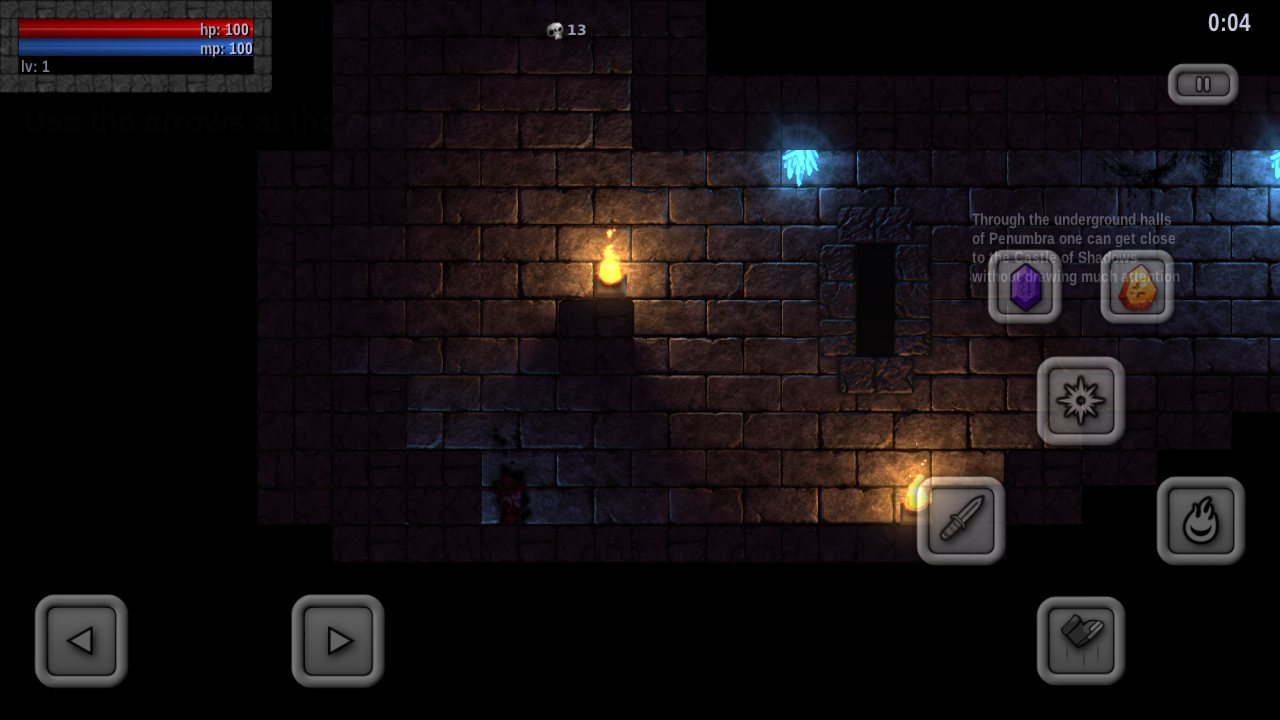
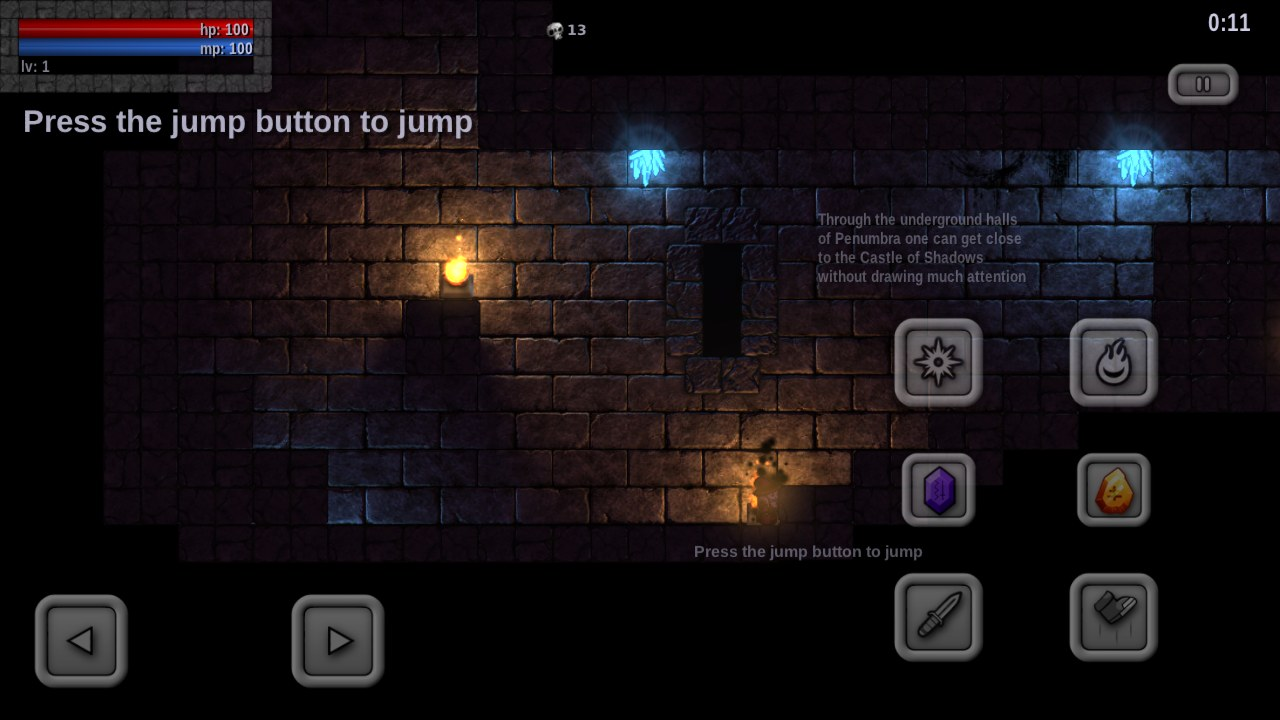
Penumbra: the README and the guides brought up to date for 1.0.3; four screenshots
A line-by-line check of the README against the code found it describing
1.0.2: a globe button on the main menu (removed by E30), "over 20,000
automated checks" (39,290 on Linux, 17 suites; Windows passes 17 of 17 on
GitHub's runner), the controls without the adjustable touch editor, "the game
plays exactly as it did" (E7, E9, E11, E13, E15 and E22 change it), the
Android build needing "Python 3" (it needs Pillow), and a credits line that
left out the options screen's and the editor's buttons that LICENSE.md lists.
All corrected. The Android row now says what was tried where: played through
on a real phone, the touch editor included (an earlier build); the newest
button layout only checked on an emulator.

Screenshots: menu.jpg (the old one showed the removed globe), touch-controls.jpg
(it showed the pre-E29 diamond) and touch-editor.jpg (E29's stagger) are
recaptured from the current build; options-phone.jpg, E31's two-column phone
settings screen, is new and sits beside the editor in the README gallery and
in controls.md. Captures are Linux software-Vulkan renders with stand-in
fonts.

docs/install.md and docs/install.pt.md: the Touch paragraph now describes the
two columns and the Adjust controls screen; the Android "Tested" note matches
the README; the credits line matches LICENSE.md. building.md no longer names
v1.0.2 as release.yml's default tag (the tag is set in the workflow);
code-signing.md no longer points at a release's contents; enhancements.md E10
[…]

diff --git a/README.md b/README.md
@@ -32,10 +32,13 @@ The Windows download is not code-signed yet, and the Mac app is not notarised by
 
 <img src="docs/images/level2.jpg" alt="Level 2: a fireball toward three guards" width="32%">
 <img src="docs/images/arena-lava.jpg" alt="A Versus arena over lava" width="32%">
-<img src="docs/images/touch-controls.jpg" alt="The touch controls on Android" width="32%">
+<img src="docs/images/touch-controls.jpg" alt="The touch controls in level 1" width="32%">
 <img src="docs/images/options.jpg" alt="The options screen" width="32%">
 <img src="docs/images/arena-pipes.jpg" alt="A Versus arena with pipes" width="32%">
 <img src="docs/images/credits.jpg" alt="The credits, with the enhanced edition" width="32%">
+
+<img src="docs/images/touch-editor.jpg" alt="The touch-controls editor: tiles for the buttons' size and opacity, a padlock, and buttons that can be moved" width="49%">
+<img src="docs/images/options-phone.jpg" alt="The options screen on a phone: two columns of settings, with the language chooser at the top right" width="49%">
 
 </div>
 
@@ -46,17 +49,18 @@ Engine. You play a wizard with a sword, fireballs and a light spell, fighting th
 to the castle's king, alone, in co-op, or in Versus.
 
 This is an **enhanced edition**, not a remake: the original's own scripts are ported to C++ line by
-line and read the original's own files, so the game plays exactly as it did. It runs on Ivan
-Cvetanović's [Supersonic Engine](https://github.com/IvanCvetanovic/Supersonic-Engine), and is
-published with André Santee's explicit permission.
+line and read the original's own files, so the game plays as it did, apart from the changes listed in
+[`docs/enhancements.md`](docs/enhancements.md). It runs on Ivan Cvetanović's
+[Supersonic Engine](https://github.com/IvanCvetanovic/Supersonic-Engine), and is published with
+André Santee's explicit permission.
 
 ## What's enhanced
 
 | | |
 |---|---|
 | **Display** | Widescreen at any resolution; the best resolution and refresh rate chosen automatically, or by hand; smooth motion on fast monitors |
-| **Controls** | Modern gamepads, a keyboard second player, on-screen touch controls, a pause |
-| **Languages** | English, German, Spanish, French, Italian, Portuguese, Russian, Turkish, Ukrainian, Japanese and Arabic, following your system's language by itself, and switchable in game from a globe button on the main menu |
+| **Controls** | Modern gamepads, a keyboard second player, on-screen touch controls you can resize, fade and move, a pause |
+| **Languages** | English, German, Spanish, French, Italian, Portuguese, Russian, Turkish, Ukrainian, Japanese and Arabic, following your system's language by itself, and switchable in game from the Settings screen |
 | **Platforms** | Downloads for Windows, Android, Mac and Linux, and an experimental one for iPhone and iPad |
 | **Fixes** | Bugs of the original fixed, and its rendering matched more closely |
 
@@ -66,15 +70,16 @@ Every change is listed with what the original did in [`docs/enhancements.md`](do
 
 | Platform | Status | What was checked | Download |
 |---|---|---|---|
-| Windows | ![playtested](https://img.shields.io/badge/-playtested-2ea44f) | Played through by a person; over 20,000 automated checks | [Penumbra-Windows.zip](https://github.com/IvanCvetanovic/Penumbra-and-the-Castle-of-Shadows-Enhanced/releases/latest/download/Penumbra-Windows.zip) |
-| Linux | ![tested](https://img.shields.io/badge/-tested-1f6feb) | All 17 test suites pass in the release build; the download itself, unpacked read-only, plays level 1 on a software Vulkan driver; not played by a person | [Penumbra-Linux.tar.gz](https://github.com/IvanCvetanovic/Penumbra-and-the-Castle-of-Shadows-Enhanced/releases/latest/download/Penumbra-Linux.tar.gz) |
-| Android | ![playtested](https://img.shields.io/badge/-playtested-2ea44f) | Played through on a real phone by a person; scripted tests on an emulator | [Penumbra-Android.apk](https://github.com/IvanCvetanovic/Penumbra-and-the-Castle-of-Shadows-Enhanced/releases/latest/download/Penumbra-Android.apk) |
+| Windows | ![playtested](https://img.shields.io/badge/-playtested-2ea44f) | Played through by a person; over 39,000 automated checks, all passing on GitHub's Windows runner | [Penumbra-Windows.zip](https://github.com/IvanCvetanovic/Penumbra-and-the-Castle-of-Shadows-Enhanced/releases/latest/download/Penumbra-Windows.zip) |
+| Linux | ![tested](https://img.shields.io/badge/-tested-1f6feb) | All 17 test suites (over 39,000 checks) pass in the release build; the download itself, unpacked read-only, plays level 1 on a software Vulkan driver; not played by a person | [Penumbra-Linux.tar.gz](https://github.com/IvanCvetanovic/Penumbra-and-the-Castle-of-Shadows-Enhanced/releases/latest/download/Penumbra-Linux.tar.gz) |
+| Android | ![playtested](https://img.shields.io/badge/-playtested-2ea44f) | Played through on a real phone by a person, the touch editor included (an earlier build); the newest button layout was only checked on an emulator; scripted tests on an emulator | [Penumbra-Android.apk](https://github.com/IvanCvetanovic/Penumbra-and-the-Castle-of-Shadows-Enhanced/releases/latest/download/Penumbra-Android.apk) |
 | macOS | ![CI](https://img.shields.io/badge/-CI%20only-d29922) | Tests pass on GitHub Actions; the download runs level 1 on GitHub's Apple silicon Macs, and its Intel half there under Rosetta; not played; never run on a real Intel Mac; not notarised | [Penumbra-macOS.zip](https://github.com/IvanCvetanovic/Penumbra-and-the-Castle-of-Shadows-Enhanced/releases/latest/download/Penumbra-macOS.zip) |
 | iOS | ![builds](https://img.shields.io/badge/-builds%20only-8b949e) | Compiles; never run on any iPhone or iPad | Experimental: [Penumbra-iOS.ipa](https://github.com/IvanCvetanovic/Penumbra-and-the-Castle-of-Shadows-Enhanced/releases/latest/download/Penumbra-iOS.ipa), for [sideloading](docs/playing.md#iphone-and-ipad-experimental) |
 
 > [!IMPORTANT]
-> The Windows version, and the Android version on one real phone, have been played by a person. Linux and
-> macOS are verified by automated tests only; the iPhone/iPad version has never run on an iPhone or iPad.
+> The Windows version, and an earlier Android build on one real phone, have been played by a person; the newest
+> Android button layout was only checked on an emulator. Linux and macOS are verified by automated tests only; the
+> iPhone/iPad version has never run on an iPhone or iPad.
 
 ## Build from source
 
@@ -86,7 +91,7 @@ git clone --recurse-submodules https://github.com/IvanCvetanovic/Penumbra-and-th
 |---|---|---|
 | Windows | `cmd //c "tools\build.bat"`, then `build\game\Penumbra.exe` | Visual Studio Build Tools (C++), CMake, Ninja |
 | Linux | `bash tools/build_linux.sh`, then `~/pn-build-linux/game/Penumbra` | [packages](docs/building.md#linux-x64), X11 or XWayland |
-| Android | `bash tools/build_android.sh --abi all` (APK in `out/android/`) | Android SDK and NDK, JDK 17, Python 3 |
+| Android | `bash tools/build_android.sh --abi all` (APK in `out/android/`) | Android SDK and NDK, JDK 17, Python 3 with Pillow |
 | macOS, iOS | The [Apple workflow](https://github.com/IvanCvetanovic/Penumbra-and-the-Castle-of-Shadows-Enhanced/blob/main/.github/workflows/apple.yml) on GitHub Actions; the downloads, the [release workflow](https://github.com/IvanCvetanovic/Penumbra-and-the-Castle-of-Shadows-Enhanced/blob/main/.github/workflows/release.yml) | |
 
 A GPU with **Vulkan 1.2** is required. Details: [`docs/building.md`](docs/building.md) ·
@@ -113,7 +118,7 @@ A GPU with **Vulkan 1.2** is required. Details: [`docs/building.md`](docs/buildi
 > engine work, the tests and the documentation. [`CLAUDE.md`](https://github.com/IvanCvetanovic/Penumbra-and-the-Castle-of-Shadows-Enhanced/blob/main/CLAUDE.md), [`DEVLOG.md`](https://github.com/IvanCvetanovic/Penumbra-and-the-Castle-of-Shadows-Enhanced/blob/main/DEVLOG.md)
 > and [`docs/planning/`](https://github.com/IvanCvetanovic/Penumbra-and-the-Castle-of-Shadows-Enhanced/blob/main/docs/planning/2026-09-27-penumbra-port.md) are the working record.
 
-Tests: 17 suites check the port against the original's files, and five of them play the game
+Tests: 17 suites (over 39,000 checks) check the port against the original's files, and five of them play the game
 headless ([`docs/testing.md`](docs/testing.md)).
 
 ## Credits
@@ -122,7 +127,7 @@ headless ([`docs/testing.md`](docs/testing.md)).
   Santee (3D modelling, game design), Gabriel Duarte (soundtrack), Approaching Thunderstorm
   (music); thanks to James Hastings-Trew, José Rodolfo Ortale, Rafael "Pet" Alencar, Taina Monclaire.
 - **Enhanced edition:** Ivan Cvetanović, developed with Claude Code.
-- **Touch buttons, and the options screen's frames, buttons and icons:** from *Magic Rampage*, by Asantee Games (the globe and the monitor icons are drawn for this edition).
+- **Touch buttons, the options screen's frames, buttons and icons, and the touch-controls editor's buttons:** from *Magic Rampage*, by Asantee Games (the globe and the monitor icons are drawn for this edition).
 - **Third-party:** TinyXML, dr_mp3, Liberation, DejaVu and Noto fonts, and the engine's libraries
   ([list](https://github.com/IvanCvetanovic/Supersonic-Engine/blob/main/THIRD_PARTY_LICENSES.md)).
 
@@ -131,7 +136,7 @@ headless ([`docs/testing.md`](docs/testing.md)).
 - **Ivan Cvetanović's code and the Supersonic Engine:** [MIT No Attribution](https://github.com/IvanCvetanovic/Penumbra-and-the-Castle-of-Shadows-Enhanced/blob/main/LICENSE), completely
   free to use.
 - **The ported scripts** (`game/script/`) **and the Ethanon runtime** (`game/eth/`): LGPL-3.0.
-- **The original game's files and the Magic Rampage art (the touch buttons, the options screen's frames and icons):** their authors' property.
+- **The original game's files and the Magic Rampage art (the touch buttons, the options screen's frames, buttons and icons, and the touch-controls editor's buttons):** their authors' property.
 
 > [!WARNING]
 > Provided **as is, without any warranty**. Ivan Cvetanović is not responsible for anything that

diff --git a/docs/enhancements.md b/docs/enhancements.md
@@ -19,7 +19,7 @@ behind each change, is the enhancements table and the steps of
 | E7 | Plain bugs fixed. `data.enml` has no level-20 threshold, so a player skipped level 20, and past level 30 the experience code never returned. | — |
 | E8 | Smooth motion on displays faster than 60 Hz: the world (sprites, lights, shadows, particles, camera) is drawn between the last two ticks, one tick behind. It is a row on the options screen and `smoothMotion` in `settings.json`. It is off under `--fixed-step` unless `--smooth on` is given. | One tick per 60 Hz vsync |
 | E9 | Shadows drawn live and ending at the light's reach | Shadows baked into lightmaps, eight times the caster's height |
-| E10 | The options screen also sets keyboard player 2, widescreen or 4:3 levels, Portuguese or English, the music and effects volumes in 10% steps, and smooth motion (E8), all saved | The screen had the video modes, pixel shaders, window/fullscreen and the joystick layout, all forgotten at exit |
+| E10 | The options screen also sets keyboard player 2, widescreen or 4:3 levels, Portuguese or English (extended to all eleven languages by E24 and E27), the music and effects volumes in 10% steps, and smooth motion (E8), all saved | The screen had the video modes, pixel shaders, window/fullscreen and the joystick layout, all forgotten at exit |
 | E11 | Standing on two floor tiles at once counts as standing | The last tile decided, so the wizard was airborne for one frame at each seam |
 | E12 | One gamepad plays the wizard and drives the menu; a second plays the princess | The first pad was player 2's |
 | E13 | A pause. In a level or an arena, Esc or player 1's Back freezes the game under Resume / Main menu, with the music at 40%. The clock freezes too, so best times leave the pause out. The pause also opens when the window loses focus (`pauseOnFocusLoss`, a row on the options screen). There is no pause on the end screens, where Esc and Back still go to the menu. | No pause: Esc in a level went straight to the main menu and the run was lost |
@@ -28,7 +28,7 @@ behind each change, is the enhancements table and the steps of
 | E16 | On-screen touch controls for phones and tablets: a direction disc, jump, sword, fireball, light, the two combos and pause. They press player 1's own keys, and a tap clicks in the menus. The buttons are Magic Rampage's, laid out by `data/touch_controls.json`. While they are on, the control hints name the buttons, not the keys (`touch` in `data/strings.json`). They are set by `touchControls` in `settings.json`, or by `--touch` on a desktop. | Keyboard and joysticks only; hints name the keys |
 | E17 | Two open-licence stand-in fonts, drawn at the metrics of the Windows faces they replace (Liberation Sans Bold for Arial and Arial Narrow, DejaVu Sans Bold for Arial Black and Verdana). They are used off Windows, and on a Windows machine that lacks a face. | The Windows system fonts only |
 | E18 | MP3 music decoded without Media Foundation (dr_mp3). This is used on every platform but Windows, and on Windows only if Media Foundation refuses a file. | Audiere, on Windows |
-| E19 | The first language follows the system off Windows too: Portuguese where `LC_ALL`, `LC_MESSAGES` or `LANG` starts with `pt`, and the device's language on Android and iOS | Portuguese only |
+| E19 | The first language follows the system off Windows too: Portuguese where `LC_ALL`, `LC_MESSAGES` or `LANG` starts with `pt`, and the device's language on Android and iOS (extended to all eleven languages by E24 and E27) | Portuguese only |
 | E20 | The options screen on a phone. It has no video-mode list, no window switch and no "Press Alt+Enter" line; the touch controls' on/off switch takes the window switch's place. Where the options art is present, E31 draws the phone's screen larger, in a layout of its own. | The same screen on every machine |
 | E21 | The Credits panel also credits the enhanced edition, after the original team: "Ivan Cvetanović", Enhanced edition (Supersonic Engine). The c with acute cannot be written in the original's Windows-1252 text, so it is drawn from byte 0x8D, which that code page leaves unused. | The 2010 team only |
 | E22 | While the touch controls are on, they are player 1 and the first gamepad plays player 2. This makes Versus and the co-op princess playable on a phone with one Bluetooth pad. Without a pad, Versus says to connect one. | A lone pad was player 2's (E12 made it player 1's) |

diff --git a/docs/install.pt.md b/docs/install.pt.md
@@ -66,7 +66,7 @@ Divirta-se!
 
 **Você precisa de:** Android 8 ou mais recente, com gráficos Vulkan 1.2 – a maioria dos celulares de 2020 para cá.
 
-> **Testado:** a versão para Android foi jogada num celular de verdade por quem a criou, e testada automaticamente num emulador de Android. Outros celulares podem se comportar de outro jeito.
+> **Testado:** uma versão anterior do jogo para Android foi jogada do começo ao fim num celular de verdade por quem a criou, inclusive a tela que ajusta os botões. O layout mais novo dos botões só foi testado num emulador de Android, onde o jogo também foi testado automaticamente. Outros celulares podem se comportar de outro jeito.
 
 **[Baixar para Android](https://github.com/IvanCvetanovic/Penumbra-and-the-Castle-of-Shadows-Enhanced/releases/latest/download/Penumbra-Android.apk)**
 
@@ -197,7 +197,7 @@ Esta **edição aprimorada**, de **Ivan Cvetanović**, é igualzinha ao original
 | Feitiço de luz | `Espaço` | `Y` |
 | Pausar | `Esc` | `Back` |
 
-**Toque:** num celular ou tablet, o jogo mostra os próprios botões, inclusive botões que fazem os combos com um toque só. Deslize o polegar pelos botões de seta para andar. Também há um botão para pausar.
+**Toque:** num celular ou tablet, o jogo mostra os próprios botões, inclusive botões que fazem os combos com um toque só. Deslize o polegar pelos botões de seta para andar. Os seis botões de ação ficam embaixo à direita, em duas colunas: espada e pulo embaixo, luz e bola de fogo em cima, e os dois botões do meio fazem os combos com um toque só. Também há um botão para pausar. Nas configurações, Ajustar controles muda o tamanho, a transparência e a posição dos botões.
 
 **Combos:** `←` `←` `S` para um raio de espada, e `↓` `←` `D` para uma grande explosão (ou o mesmo com `→`).
 
@@ -216,7 +216,7 @@ Esta **edição aprimorada**, de **Ivan Cvetanović**, é igualzinha ao original
 **Edição aprimorada**
 
 - **Ivan Cvetanović**, desenvolvida com o Claude Code, na Supersonic Engine dele
-- **Botões de toque e as molduras, botões e ícones da tela de configurações:** do Magic Rampage, da Asantee Games (o globo e o ícone do monitor foram desenhados para esta edição)
+- **Botões de toque, as molduras, botões e ícones da tela de configurações e os botões da tela de ajuste dos controles de toque:** do Magic Rampage, da Asantee Games (o globo e o ícone do monitor foram desenhados para esta edição)
 
 Grátis para jogar. Fornecido como está, sem nenhuma garantia; veja as [licenças](https://github.com/IvanCvetanovic/Penumbra-and-the-Castle-of-Shadows-Enhanced/blob/main/LICENSE.md) (em inglês). O código-fonte está no [GitHub](https://github.com/IvanCvetanovic/Penumbra-and-the-Castle-of-Shadows-Enhanced).
 

diff --git a/docs/install.md b/docs/install.md
@@ -66,7 +66,7 @@ Have fun!
 
 **You need:** Android 8 or newer with Vulkan 1.2 graphics – most phones from about 2020 on.
 
-> **Tested:** the Android version has been played on a real phone by the person who made it, and tested automatically on an Android emulator. Other phones may behave differently.
+> **Tested:** an earlier version of the Android game was played through on a real phone by the person who made it, including the screen that adjusts the buttons. The newest button layout was only tried on an Android emulator, where the game was also tested automatically. Other phones may behave differently.
 
 **[Download for Android](https://github.com/IvanCvetanovic/Penumbra-and-the-Castle-of-Shadows-Enhanced/releases/latest/download/Penumbra-Android.apk)**
 
@@ -197,7 +197,7 @@ This **enhanced edition** by **Ivan Cvetanović** plays just like the original, 
 | Light spell | `Space` | `Y` |
 | Pause | `Esc` | `Back` |
 
-**Touch:** on a phone or tablet the game draws its own buttons, including buttons that do the combos with one tap. Slide your thumb over the arrow buttons to walk. There is also a button to pause.
+**Touch:** on a phone or tablet the game draws its own buttons, including buttons that do the combos with one tap. Slide your thumb over the arrow buttons to walk. The six action buttons are at the bottom right in two columns: sword and jump at the bottom, light and fireball at the top, and the two buttons in the middle do the combos in one tap. There is also a button to pause. In the settings, Adjust controls changes the buttons' size, opacity and place.
 
 **Combos:** `←` `←` `S` for a sword beam, and `↓` `←` `D` for a big blast (or the same with `→`).
 
@@ -216,7 +216,7 @@ This **enhanced edition** by **Ivan Cvetanović** plays just like the original, 
 **Enhanced edition**
 
 - **Ivan Cvetanović**, developed with Claude Code, on his Supersonic Engine
-- **Touch buttons, and the options screen's frames, buttons and icons:** from Magic Rampage, by Asantee Games (the globe and the monitor icons are drawn for this edition)
+- **Touch buttons, the options screen's frames, buttons and icons, and the touch-controls editor's buttons:** from Magic Rampage, by Asantee Games (the globe and the monitor icons are drawn for this edition)
 
 Free to play. Provided as is, without any warranty; see the [licences](https://github.com/IvanCvetanovic/Penumbra-and-the-Castle-of-Shadows-Enhanced/blob/main/LICENSE.md). The source code is on [GitHub](https://github.com/IvanCvetanovic/Penumbra-and-the-Castle-of-Shadows-Enhanced).
 

diff --git a/docs/controls.md b/docs/controls.md
@@ -158,6 +158,10 @@ edge, the right one 30 higher than the left; before it the four buttons were a d
 The buttons' size, opacity and places are the player's to change. With the touch controls on, the options screen has an **Adjust controls** button
 next to the touch controls' switch (on a phone, a cell of the large layout of E31, beside the switch's cell; under it in the art-less layout). It opens a full-screen editor that shows the real buttons on a dark background, as they are in a level: the grid of two columns of three described above (E29, E32), at the size, opacity and places set.
 
+![The options screen on a 20:9 phone: two columns of settings, the language chooser at the top right, and the Adjust controls button beside the touch controls' switch](images/options-phone.jpg)
+
+*A phone's options screen (E31): Adjust controls is the cell to the right of Enable touch controls.*
+
 ![The editor on a 20:9 phone, with the size at 1.2, the opacity at 0.6, the padlock open and some buttons moved](images/touch-editor.jpg)
 
 *A tuned example: size 1.2, opacity 0.6, the padlock open (red) and a few buttons moved. The thin frames show where a finger takes each button.*

diff --git a/docs/code-signing.md b/docs/code-signing.md
@@ -91,8 +91,9 @@ keeps them: unpacked into a folder outside the source tree, the Linux one read-o
 ordinary user. When it publishes, it checks the files
 already in the release against their published checksums, adds the three new files, and rewrites
 `SHA256SUMS.txt` for all five, with the Windows and Android lines unchanged. It never replaces the
-Windows zip or the APK. The 1.0.0 files for Linux, Mac and iPhone/iPad were built from commit
-`aae1a29`, later than the release's tag: the same game, with the packaging and a Linux start-up fix.
+Windows zip or the APK. The three files are built from the commit the run starts on, which may be
+later than the release's tag (the publish job's summary names that commit), so they can include
+changes made since the tag.
 
 ## Team roles
 

diff --git a/docs/building.md b/docs/building.md
@@ -149,7 +149,7 @@ repository ([code-signing.md](code-signing.md)). The other three are built on Gi
 ### The release workflow
 
 It runs only by hand: Actions, Release, Run workflow, with the tag of the release to add the files
-to (`v1.0.2` by default). The "publish" box is off by default, and the run is then a dry run: it
+to (the default tag is set in `release.yml`). The "publish" box is off by default, and the run is then a dry run: it
 builds and checks everything and leaves the three files as the run's artifacts (`release-linux`,
 `release-macos`, `release-ios`), with the logs and captures beside them (`linux-logs`,
 `macos-logs`, `ios-logs`), to be looked at first. The files are built from the commit the run
